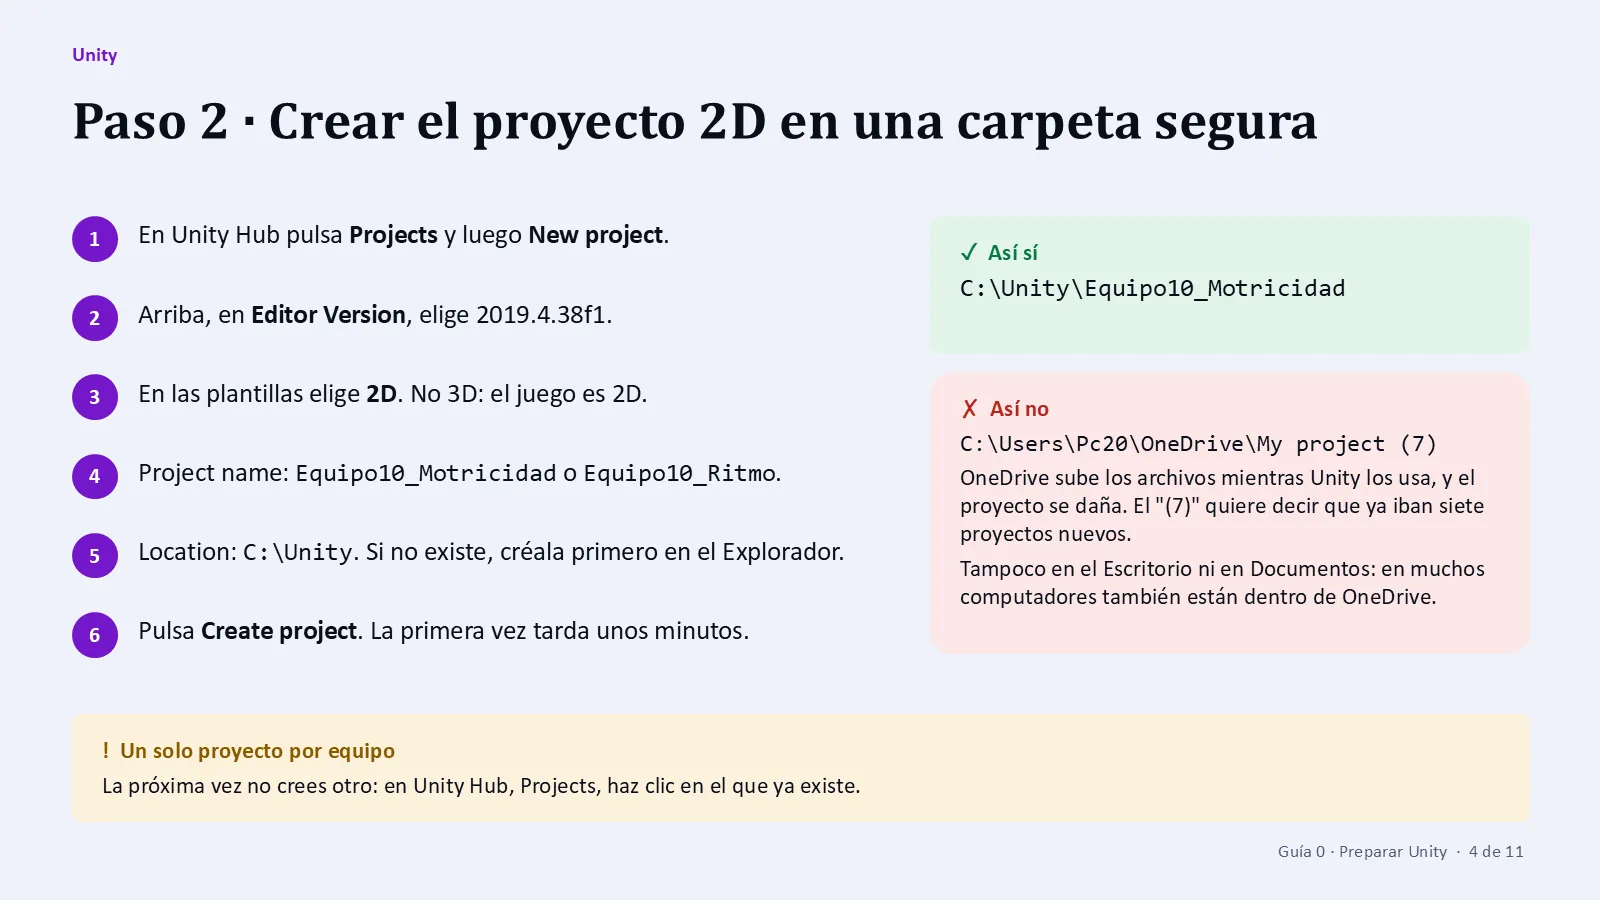
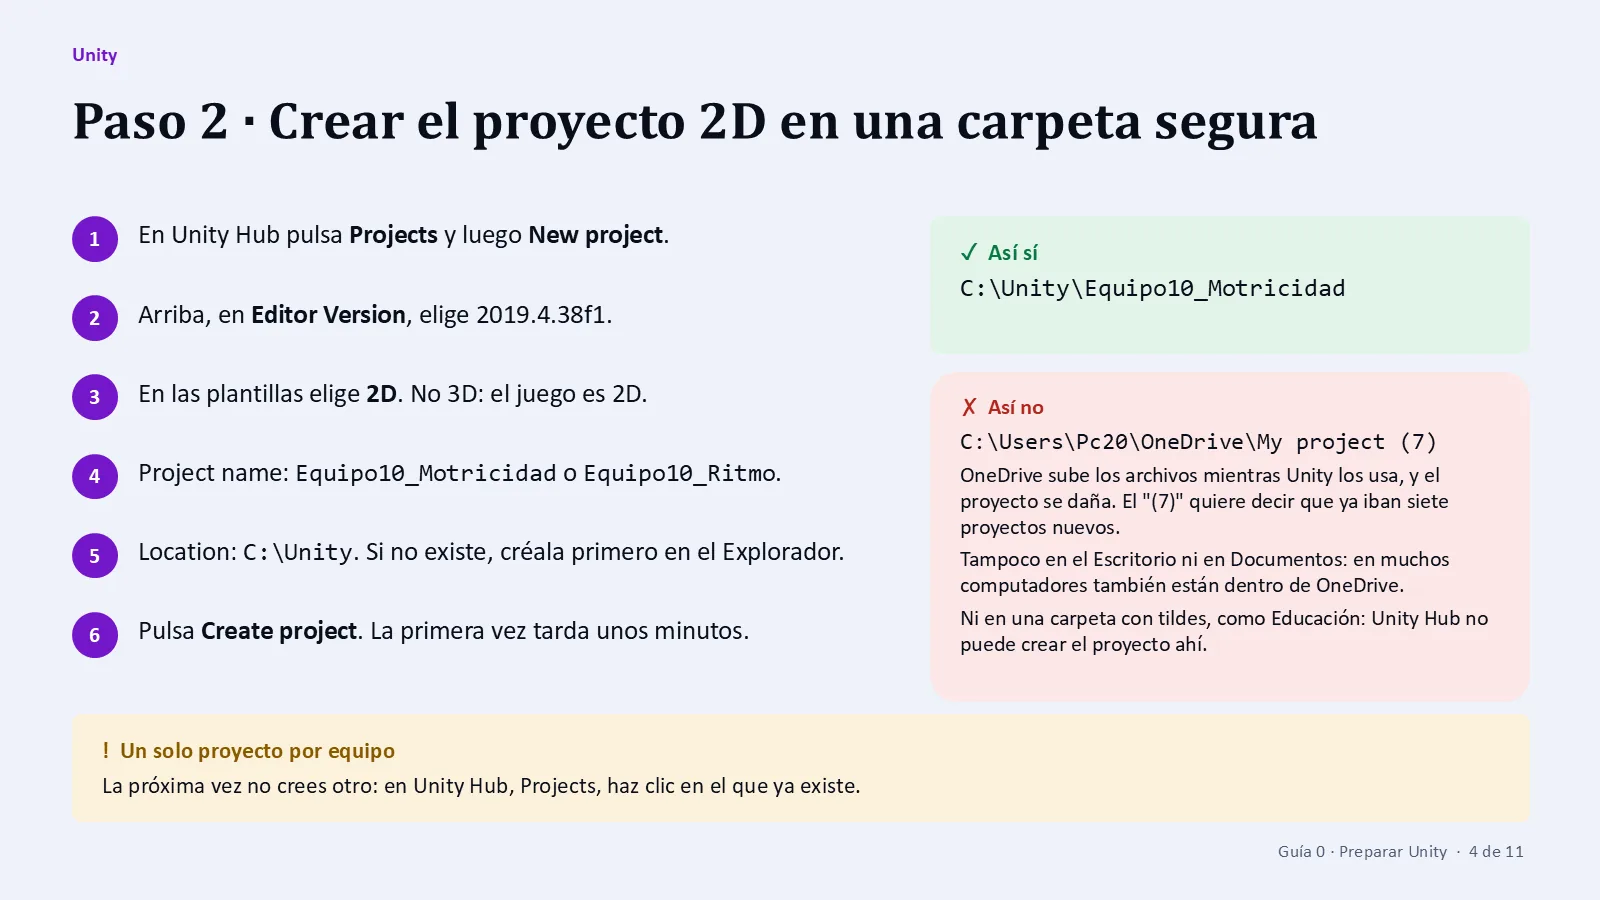
Advierte en la Guia 0 que Unity Hub no crea proyectos en rutas con tilde
AL MONTAR EL PROYECTO DEL DOCENTE
Unity Hub lanzo Unity 2019.4.38f1 para crear el proyecto en una carpeta con
Tecnologia y coordinacion en la ruta, y fallo al extraer la plantilla: Can
not open output file, el sistema no puede encontrar la ruta especificada.
Es el mismo origen del fallo de WebGL: el extractor y el compilador de
Unity 2019.4 no manejan letras con tilde en la ruta.

Como es facil que un estudiante cree su proyecto en una carpeta llamada
Educacion, el paso 2 de la Guia 0 ahora lo dice, en la diapositiva y en la
version web. El proyecto del docente se creo por linea de comandos, sin
plantilla, que si funciona en esa ruta.

La bitacora registra como quedo el proyecto: kit y escenas de los dos juegos
importados, modo 2D, un menu del Editor que prepara Build Settings para cada
juego porque ambos tienen una escena 01_Menu, y la verificacion de que los
152 archivos coinciden con la referencia que paso los bancos de pruebas.

MEDIDO
Las cuatro auditorias pasan, sin fallas. Republicar las guias no cambia nada
en el portal.

Changed region(s): [[0.5938, 0.4356, 0.9375, 0.7467]]

diff --git a/docs/guias/preparar-unity.html b/docs/guias/preparar-unity.html
@@ -147,7 +147,7 @@
 <li><h3>Crea un solo proyecto 2D en C:\Unity</h3><p>Projects, New project, Editor Version 2019.4.38f1, plantilla 2D. Nómbralo Equipo10_Motricidad o Equipo10_Ritmo y guárdalo en C:\Unity. La próxima vez ábrelo desde Projects: no crees otro.</p>
 <div class="nota-caja ambar"><span class="titulo"><svg class="ico " width="15" height="15" viewBox="0 0 24 24" fill="none" stroke="currentColor" stroke-linecap="round" stroke-linejoin="round" aria-hidden="true"><path d="M15 14c.2-1 .7-1.7 1.5-2.5 1-.9 1.5-2.2 1.5-3.5A6 6 0 0 0 6 8c0 1 .2 2.2 1.5 3.5.7.7 1.3 1.5 1.5 2.5" />
   <path d="M9 18h6" />
-  <path d="M10 22h4" /></svg> Ojo con esto</span>Nunca en OneDrive, ni en el Escritorio ni en Documentos si están sincronizados: OneDrive sube los archivos mientras Unity los escribe y el proyecto se daña.</div>
+  <path d="M10 22h4" /></svg> Ojo con esto</span>Nunca en OneDrive, ni en el Escritorio ni en Documentos si están sincronizados: OneDrive sube los archivos mientras Unity los escribe y el proyecto se daña. Tampoco en una carpeta con tildes, como Educación: Unity Hub no puede crear el proyecto ahí.</div>
 </li>
 <li><h3>Repasa las cinco zonas del editor</h3><p>Hierarchy es la lista de lo que hay en la escena; Scene es donde acomodas y Game lo que ve el jugador; Inspector muestra las propiedades del objeto elegido; Project tiene todos los archivos; Console muestra mensajes y errores.</p>
 <div class="nota-caja ambar"><span class="titulo"><svg class="ico " width="15" height="15" viewBox="0 0 24 24" fill="none" stroke="currentColor" stroke-linecap="round" stroke-linejoin="round" aria-hidden="true"><path d="M15 14c.2-1 .7-1.7 1.5-2.5 1-.9 1.5-2.2 1.5-3.5A6 6 0 0 0 6 8c0 1 .2 2.2 1.5 3.5.7.7 1.3 1.5 1.5 2.5" />

diff --git a/BITACORA_TECNICA.md b/BITACORA_TECNICA.md
@@ -981,6 +981,40 @@ que tomar una persona con la ventana de Unity al frente.
 El importado en sí sí está comprobado: ambos paquetes se importaron en proyectos
 nuevos de 2019.4.38f1 y compilaron sin errores (13.5).
 
+### 13.8 El proyecto de Unity del docente, montado
+
+Las carpetas cambiaron de lugar el 21 de octubre. Todo vive ahora en
+`Proyectos repositorios Github/Videojuego - Motricidad y coordinación/`:
+
+| Carpeta | Qué es |
+|---|---|
+| `Kit Unity Equipo 10/` | Lo mismo de antes: referencia, generadores, guías, paquetes. Sigue ignorada por git del portal |
+| `Videojuego motricidad y coordinación/` | El proyecto de Unity del docente. **Es un repositorio propio**, enlazado a `profenapaipa/Videojuego-motricidad-y-coordinacin`, sin commits todavía |
+
+**Lo que pasó al crearlo con Unity Hub:** el Hub lanzó Unity 2019.4.38f1 con la
+plantilla 3D y falló la extracción de la plantilla: `Can not open output file: El
+sistema no puede encontrar la ruta especificada`. La ruta tenía `Tecnología` y
+`coordinación`. Quedó la carpeta con solo los archivos de git y un Editor con la
+ventana "Error". Se cerró ese proceso y se creó el proyecto por línea de comandos
+(`-createProject`, sin plantilla), que sí funciona en esa ruta: ya había
+funcionado para la carpeta de referencia. Es el mismo origen del fallo de
+WebGL (13.6): las rutas con tilde. La Guía 0 ahora lo advierte en el paso 2.
+
+**Cómo quedó:** se importó `Solucion_Equipo10_SoloDocente.unitypackage` (kit y
+escenas de los dos juegos), se activó el modo 2D, y se agregó
+`Assets/Editor/MenuEquipo10.cs`. Los dos juegos tienen una escena llamada
+`01_Menu`, así que no caben a la vez en Build Settings; el menú **Equipo 10**
+prepara la lista para uno u otro. Trae además una verificación de scripts
+perdidos en las escenas.
+
+**Comprobado:** compila sin errores; los 152 archivos de `KitEquipo10` y `Solucion`
+son idénticos (hash) a los de la referencia que pasó los bancos de pruebas
+jugando; las 7 escenas se abren sin scripts perdidos. **No comprobado:** pulsar
+Play en el Editor con ventana; lo hará el docente.
+
+`publicar_guias.py` buscaba el portal contando dos niveles hacia arriba y dejó de
+funcionar con la carpeta movida; ahora sube hasta encontrar `datos/guias.json`.
+
 **El aviso de `auditar.py`** sobre el color `#C59BFF` en `sitio.css` línea 2062
 es la auditoría leyendo un comentario del commit `779660e`, no un color en uso.
 Las fallas son cero.
